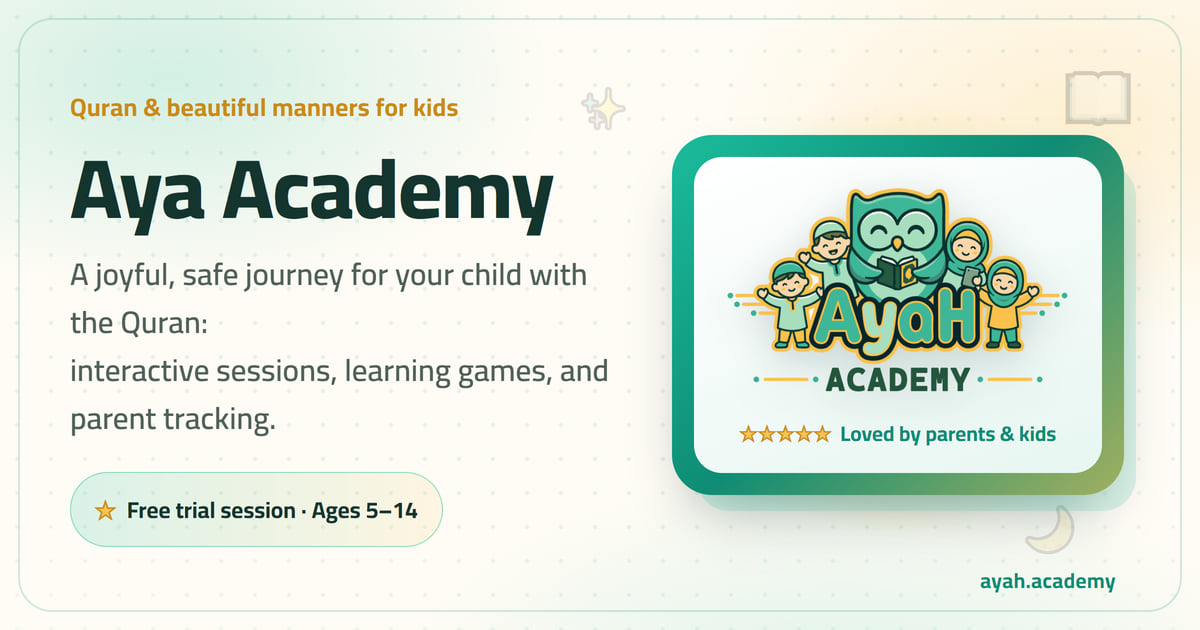
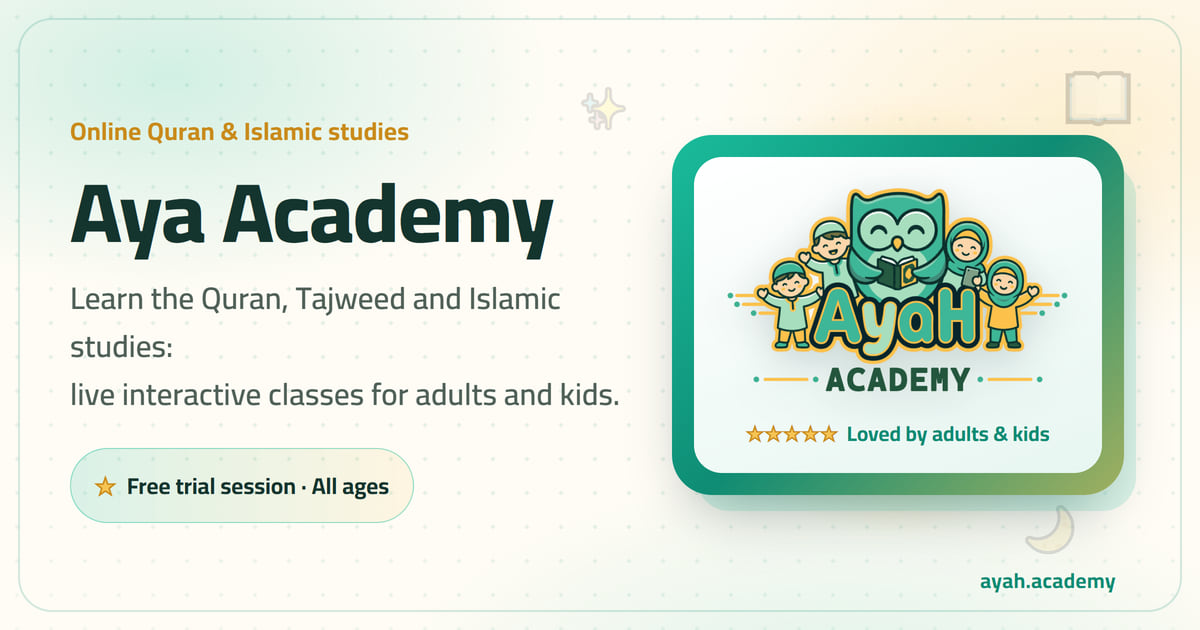
deploy

Changed region(s): [[0.0308, 0.1508, 0.5242, 0.8746], [0.6167, 0.6635, 0.8942, 0.7238]]

diff --git a/web/src/shared/lib/seo/content.js b/web/src/shared/lib/seo/content.js
@@ -10,42 +10,42 @@ export const seoContent = {
   // Site-wide defaults (homepage + fallback for anything unspecified).
   site: {
     ar: {
-      title: "أكاديمية آية — تعليم القرآن والأخلاق للأطفال بمتعة وأمان",
+      title: "أكاديمية آية — تحفيظ القرآن والعلوم الشرعية أونلاين للكبار والأطفال",
       titleAbsolute: true,
       description:
-        "رحلة مرحة وآمنة لتعليم الأطفال القرآن الكريم والأخلاق الجميلة عبر حصص تفاعلية وألعاب تعليمية ومتابعة لوليّ الأمر. ابدأ بحصة تجريبية مجانية.",
+        "تعلّم القرآن الكريم وتحفيظه، والتجويد، واللغة العربية، والعلوم الشرعية أونلاين مع معلّمين مؤهّلين — للكبار والأطفال من ٥ سنوات فأكثر. حصص مباشرة تفاعلية ومتابعة مستمرة، وحصة تجريبية مجانية.",
       keywords: [
-        "تعليم القرآن للأطفال",
+        "تحفيظ القرآن أونلاين",
+        "تعليم القرآن الكريم",
+        "تحفيظ القرآن للكبار",
         "تحفيظ القرآن للأطفال",
-        "تحفيظ قرآن أونلاين",
+        "دورات تجويد أونلاين",
+        "تعليم العلوم الشرعية",
+        "دراسة العلوم الشرعية أونلاين",
+        "تعلم اللغة العربية أونلاين",
         "أكاديمية قرآن أونلاين",
-        "معلم قرآن للأطفال",
-        "تعليم التجويد للأطفال",
+        "معلم قرآن خصوصي أونلاين",
         "حلقات تحفيظ القرآن اون لاين",
-        "تعليم الأخلاق للأطفال",
-        "حصص قرآن تفاعلية للأطفال",
-        "دورة تحفيظ قرآن للأطفال",
-        "تعليم الأطفال القرآن أونلاين",
         "أكاديمية آية",
       ],
     },
     en: {
-      title: "Aya Academy — Fun & Safe Quran and Manners Learning for Kids",
+      title: "Aya Academy — Online Quran Memorization & Islamic Studies for Adults & Kids",
       titleAbsolute: true,
       description:
-        "A joyful, safe journey for kids to learn the Quran and beautiful manners through interactive sessions, educational games and parent tracking. Start with a free trial session.",
+        "Learn and memorize the Quran, Tajweed, Arabic and Islamic studies online with qualified teachers — for adults and children ages 5 and up. Live interactive classes, progress tracking and a free trial session.",
       keywords: [
-        "Quran for kids",
-        "Quran memorization for kids",
-        "online Quran classes for kids",
+        "online Quran memorization",
+        "learn Quran online",
+        "Quran classes for adults",
+        "Quran classes for kids",
+        "online Tajweed course",
+        "Islamic studies online",
+        "learn Arabic online",
         "online Quran academy",
-        "Quran teacher for kids",
-        "learn Quran online for children",
-        "kids Tajweed classes",
-        "Islamic manners for kids",
-        "interactive Quran classes",
-        "Quran course for children",
-        "kids Islamic education online",
+        "Quran teacher online",
+        "Hifz online",
+        "memorize Quran online",
         "Aya Academy",
       ],
     },
@@ -53,32 +53,34 @@ export const seoContent = {
 
   home: {
     ar: {
-      title: "أكاديمية آية — تعليم القرآن والأخلاق للأطفال بمتعة وأمان",
+      title: "أكاديمية آية — تحفيظ القرآن والعلوم الشرعية أونلاين للكبار والأطفال",
       titleAbsolute: true,
       description:
-        "رحلة مرحة وآمنة لتعليم الأطفال القرآن الكريم والأخلاق الجميلة عبر حصص تفاعلية وألعاب تعليمية. احجز حصة تجريبية مجانية لطفلك الآن.",
+        "احجز حصة تجريبية مجانية في أكاديمية آية: تحفيظ القرآن والتجويد واللغة العربية والعلوم الشرعية أونلاين للكبار والأطفال، مع معلّمين مؤهّلين وحصص مباشرة تفاعلية.",
       keywords: [
-        "تعليم القرآن للأطفال",
-        "تحفيظ القرآن للأطفال أونلاين",
+        "تحفيظ القرآن أونلاين",
+        "تعليم القرآن للكبار والأطفال",
+        "دورات تجويد أونلاين",
+        "تعليم العلوم الشرعية أونلاين",
+        "حصة قرآن تجريبية مجانية",
         "أكاديمية قرآن أونلاين",
-        "حصة قرآن تجريبية مجانية للأطفال",
-        "معلم قرآن للأطفال",
-        "تعليم التجويد والأخلاق للأطفال",
+        "معلم قرآن خصوصي أونلاين",
         "أكاديمية آية",
       ],
     },
     en: {
-      title: "Aya Academy — Fun & Safe Quran and Manners Learning for Kids",
+      title: "Aya Academy — Online Quran Memorization & Islamic Studies for Adults & Kids",
       titleAbsolute: true,
       description:
-        "A joyful, safe journey for kids to learn the Quran and beautiful manners through interactive sessions and educational games. Book a free trial session today.",
+        "Book a free trial at Aya Academy: online Quran memorization, Tajweed, Arabic and Islamic studies for adults and kids, with qualified teachers and live interactive classes.",
       keywords: [
-        "Quran for kids",
-        "online Quran memorization for kids",
+        "online Quran memorization",
+        "Quran classes for adults and kids",
+        "online Tajweed course",
+        "Islamic studies online",
+        "free Quran trial class",
         "online Quran academy",
-        "free Quran trial class for kids",
-        "Quran teacher for kids",
-        "Tajweed and manners for children",
+        "Quran teacher online",
         "Aya Academy",
       ],
     },
@@ -87,20 +89,20 @@ export const seoContent = {
   login: {
     ar: {
       title: "تسجيل الدخول",
-      description: "سجّل الدخول إلى حسابك في أكاديمية آية لمتابعة تقدّم طفلك وحصصه.",
+      description: "سجّل الدخول إلى حسابك في أكاديمية آية لمتابعة تقدّمك أو تقدّم طفلك وحصصك.",
       keywords: [
         "تسجيل الدخول أكاديمية آية",
-        "حساب ولي الأمر",
-        "متابعة تقدّم الطفل في القرآن",
+        "حساب الطالب وولي الأمر",
+        "متابعة التقدّم في تحفيظ القرآن",
       ],
     },
     en: {
       title: "Login",
-      description: "Sign in to your Aya Academy account to follow your child's progress and sessions.",
+      description: "Sign in to your Aya Academy account to follow your — or your child's — progress and sessions.",
       keywords: [
         "Aya Academy login",
-        "parent account",
-        "track child Quran progress",
+        "student and parent account",
+        "track Quran progress",
       ],
     },
   },
@@ -130,20 +132,20 @@ export const seoContent = {
   register: {
     ar: {
       title: "إنشاء حساب",
-      description: "أنشئ حسابًا في أكاديمية آية وابدأ رحلة طفلك مع القرآن بحصة تجريبية مجانية.",
+      description: "أنشئ حسابًا في أكاديمية آية وابدأ رحلتك أو رحلة طفلك مع تحفيظ القرآن والعلوم الشرعية بحصة تجريبية مجانية.",
       keywords: [
         "التسجيل في أكاديمية قرآن أونلاين",
         "حصة قرآن تجريبية مجانية",
-        "تسجيل طفل لتحفيظ القرآن أونلاين",
+        "تعلم القرآن أونلاين للكبار والأطفال",
       ],
     },
     en: {
       title: "Create an account",
-      description: "Create an Aya Academy account and start your child's Quran journey with a free trial.",
+      description: "Create an Aya Academy account and start your — or your child's — Quran and Islamic studies journey with a free trial.",
       keywords: [
         "sign up online Quran academy",
         "free Quran trial session",
-        "register child for online Quran classes",
+        "learn Quran online for adults and kids",
       ],
     },
   },
@@ -152,24 +154,26 @@ export const seoContent = {
     ar: {
       title: "المدوّنة",
       description:
-        "مقالات أكاديمية آية للأهل: نصائح عملية عن تحفيظ القرآن للأطفال، تعليم الأخلاق، والتعلّم الممتع — بكلمات بسيطة وقلبٍ دافئ.",
+        "مقالات أكاديمية آية: نصائح عملية عن تحفيظ القرآن، والتجويد، وتعلّم العلوم الشرعية واللغة العربية — للكبار والأهل، بأسلوب بسيط ومفيد.",
       keywords: [
-        "مدونة تربية إسلامية",
-        "تحفيظ القرآن للأطفال",
-        "تعليم الأخلاق للأطفال",
-        "نصائح للأهل",
+        "مدونة تحفيظ القرآن",
+        "نصائح تعلم القرآن",
+        "تعلم التجويد",
+        "العلوم الشرعية",
+        "تربية إسلامية",
         "أكاديمية آية",
       ],
     },
     en: {
       title: "Blog",
       description:
-        "Aya Academy articles for parents: practical tips on helping kids memorize the Quran, teaching manners, and joyful learning — in plain words and a warm heart.",
+        "Aya Academy articles: practical tips on Quran memorization, Tajweed, Arabic and Islamic studies — for adult learners and parents, in plain, useful words.",
       keywords: [
-        "Islamic parenting blog",
-        "Quran memorization for kids",
-        "teaching kids manners",
-        "parenting tips",
+        "Quran memorization tips",
+        "learn Tajweed",
+        "Islamic studies",
+        "learn Arabic",
+        "Islamic parenting",
         "Aya Academy",
       ],
     },

diff --git a/web/src/shared/lib/seo/structuredData.js b/web/src/shared/lib/seo/structuredData.js
@@ -15,8 +15,8 @@ import { languages } from "@/i18n/settings.js";
 import { SITE_URL, brand } from "./config.js";
 
 const DESCRIPTION = {
-  ar: "أكاديمية آية — رحلة مرحة وآمنة لتعليم الأطفال (من ٥ سنوات فأكثر) القرآن الكريم والأخلاق الجميلة عبر حصص تفاعلية وألعاب تعليمية ومتابعة لولي الأمر.",
-  en: "Aya Academy — a joyful, safe journey for kids (ages 5 and up) to learn the Quran and beautiful manners through interactive sessions, educational games and parent tracking.",
+  ar: "أكاديمية آية — تعلّم القرآن الكريم وتحفيظه، والتجويد، واللغة العربية، والعلوم الشرعية أونلاين، للكبار والأطفال من ٥ سنوات فأكثر، عبر حصص مباشرة تفاعلية مع معلّمين مؤهّلين ومتابعة مستمرة.",
+  en: "Aya Academy — learn and memorize the Quran, Tajweed, Arabic and Islamic studies online, for adults and children ages 5 and up, through live interactive sessions with qualified teachers and ongoing progress tracking.",
 };
 
 // A stable @id for the organization so other nodes can reference it.
@@ -34,24 +34,28 @@ const CONTACT_PHONE = "+966582509655";
 // graph reads naturally.
 const KNOWS_ABOUT = {
   ar: [
-    "تعليم القرآن الكريم للأطفال",
-    "تحفيظ القرآن",
-    "التجويد",
-    "اللغة العربية للأطفال",
-    "الدراسات الإسلامية للأطفال",
-    "الأخلاق الإسلامية",
+    "تحفيظ القرآن الكريم",
+    "تعليم القرآن",
+    "التجويد وأحكام التلاوة",
+    "العلوم الشرعية",
+    "الدراسات الإسلامية",
+    "اللغة العربية",
+    "العقيدة والفقه",
+    "السيرة النبوية",
+    "الأخلاق والآداب الإسلامية",
     "الأدعية والأذكار",
-    "التربية الإسلامية للأطفال",
   ],
   en: [
-    "Quran education for children",
     "Quran memorization",
-    "Tajweed",
-    "Arabic language for children",
-    "Islamic studies for children",
+    "Quran education",
+    "Tajweed and recitation rules",
+    "Islamic sciences",
+    "Islamic studies",
+    "Arabic language",
+    "Aqeedah and Fiqh",
+    "Prophetic biography (Seerah)",
     "Islamic manners",
     "Duas and dhikr",
-    "Islamic parenting",
   ],
 };
 
@@ -110,28 +114,28 @@ export function faqSchema(items = []) {
 
 const COURSE = {
   ar: {
-    name: "برنامج تعليم القرآن والأخلاق للأطفال أونلاين",
+    name: "برنامج تعليم وتحفيظ القرآن والعلوم الشرعية أونلاين",
     teaches: [
       "حفظ القرآن الكريم",
       "التلاوة والتجويد",
       "اللغة العربية",
-      "الدراسات الإسلامية",
+      "العلوم الشرعية والدراسات الإسلامية",
       "الأخلاق والآداب الإسلامية",
       "الأدعية والأذكار",
     ],
-    audience: "الأطفال من ٥ سنوات فأكثر",
+    audience: "المتعلّمون من ٥ سنوات فأكثر — كبارًا وصغارًا",
   },
   en: {
-    name: "Online Quran & Manners Program for Kids",
+    name: "Online Quran & Islamic Studies Program",
     teaches: [
       "Quran memorization",
       "Recitation & Tajweed",
       "Arabic language",
-      "Islamic studies",
+      "Islamic sciences & studies",
       "Islamic manners & etiquette",
       "Duas & dhikr",
     ],
-    audience: "Children aged 5 and up",
+    audience: "Learners aged 5 and up — adults and children",
   },
 };
 
@@ -151,7 +155,7 @@ export function courseSchema(lng) {
     inLanguage: languages,
     provider: { "@id": ORG_ID },
     teaches: c.teaches,
-    educationalLevel: "beginner",
+    educationalLevel: "Beginner to advanced",
     audience: {
       "@type": "EducationalAudience",
       educationalRole: "student",

diff --git a/web/src/app/manifest.js b/web/src/app/manifest.js
@@ -13,7 +13,7 @@ export default function manifest() {
     name: BRAND[fallbackLng],
     short_name: BRAND[fallbackLng],
     description:
-      'رحلة مرحة وآمنة لتعليم الأطفال القرآن الكريم والأخلاق الجميلة.',
+      'تحفيظ القرآن والتجويد واللغة العربية والعلوم الشرعية أونلاين، للكبار والأطفال، مع معلّمين مؤهّلين.',
     start_url: `/${fallbackLng}`,
     scope: '/',
     display: 'standalone',
